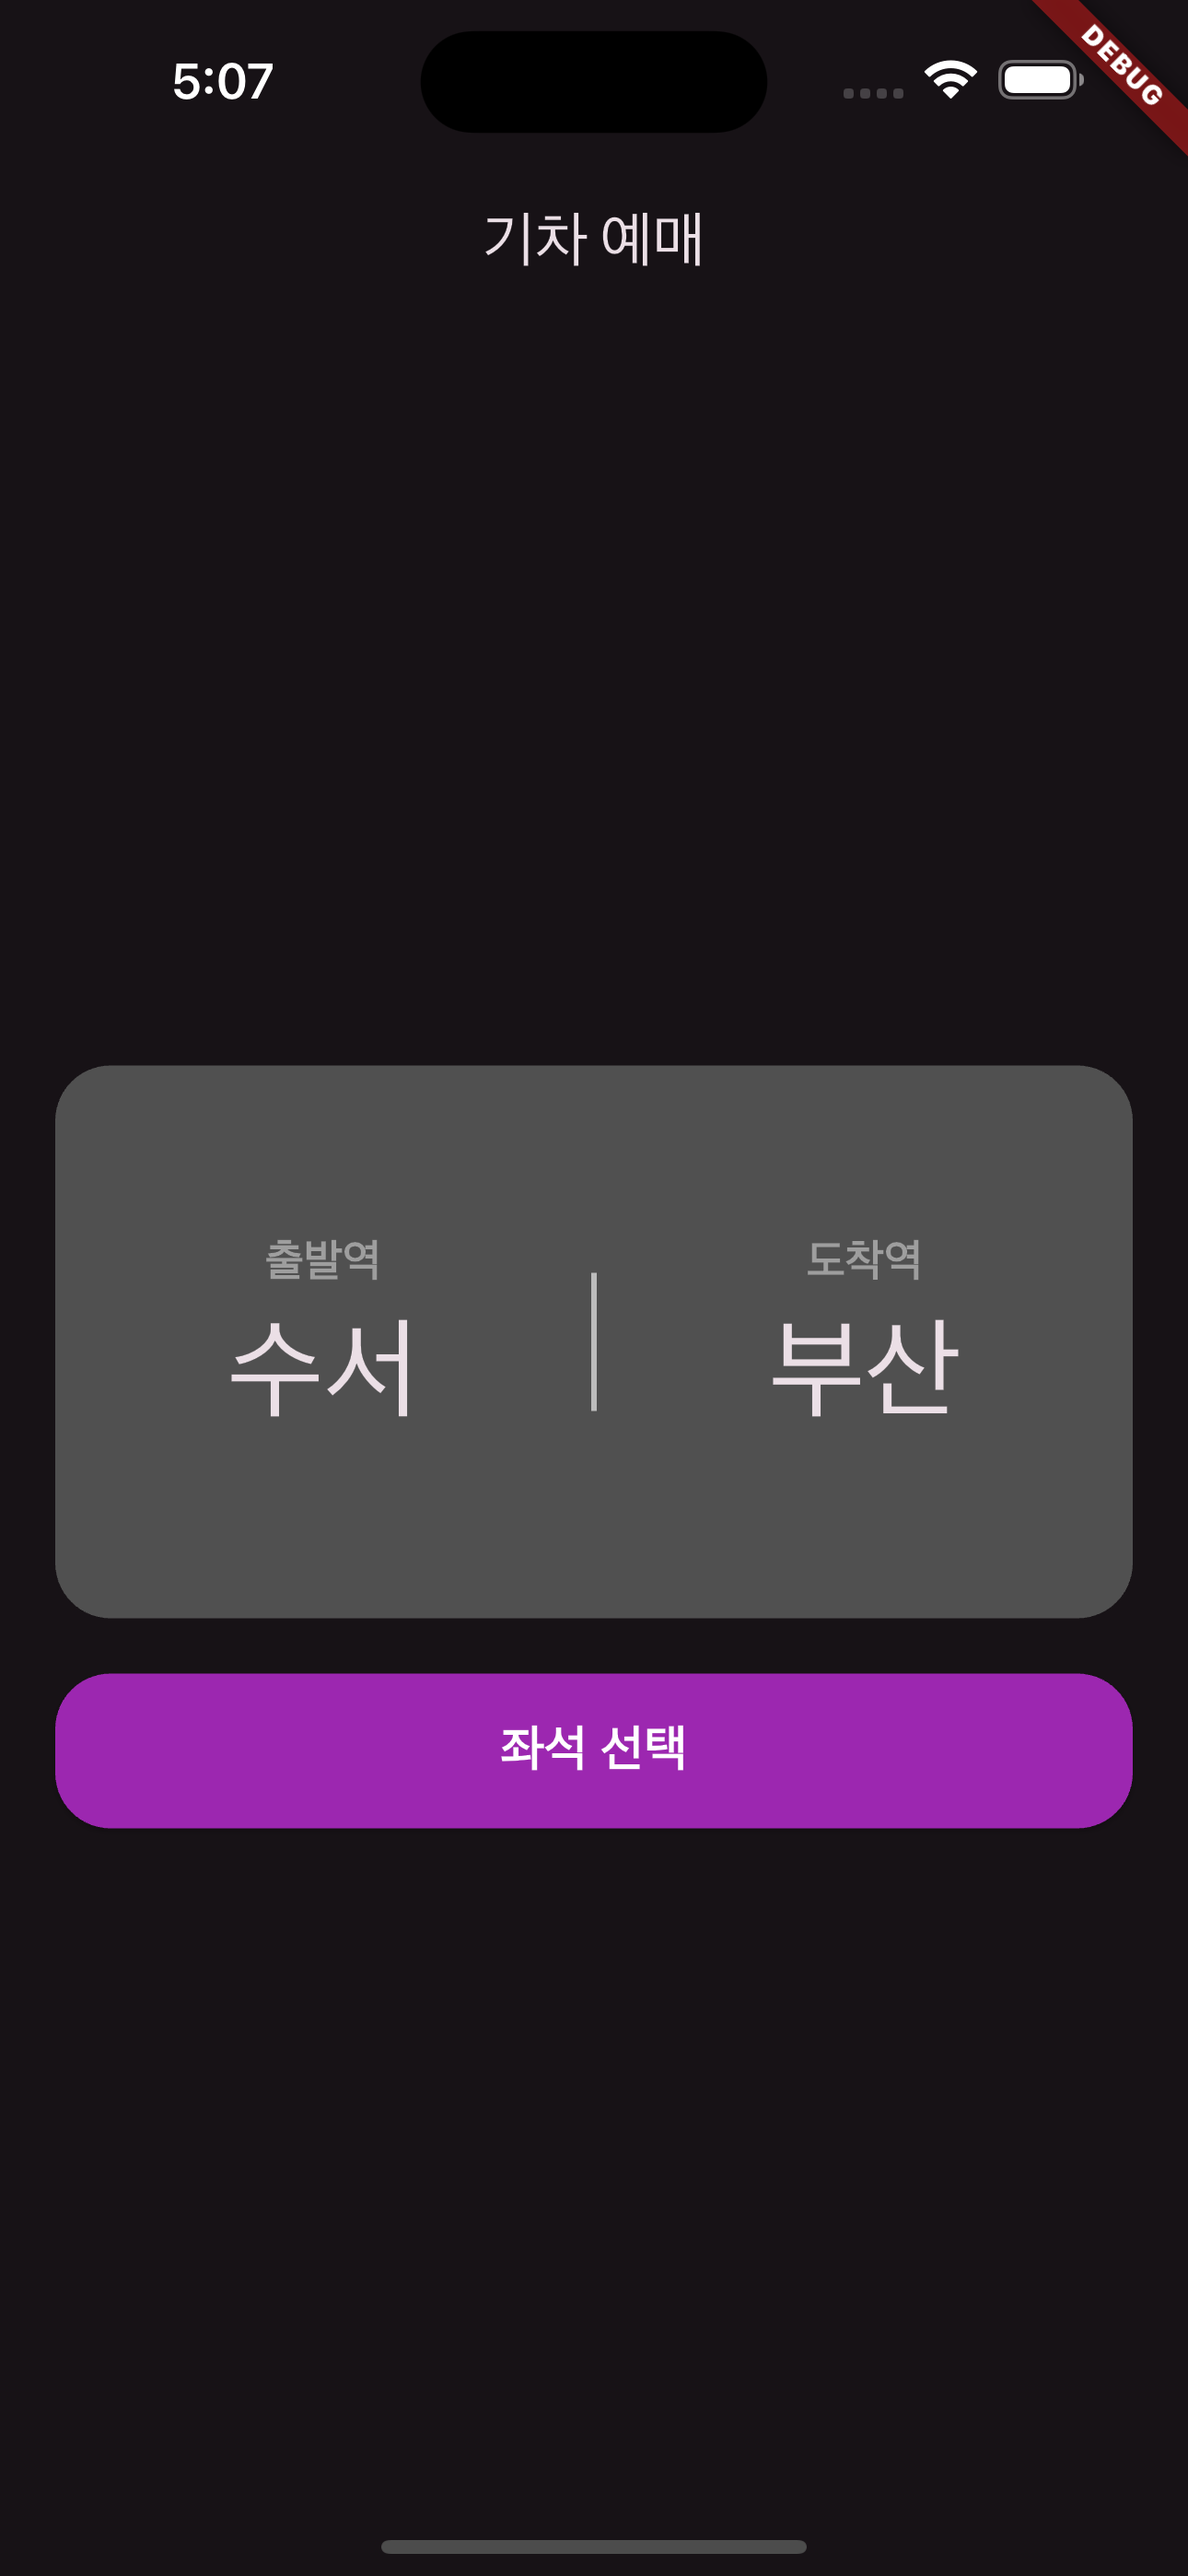
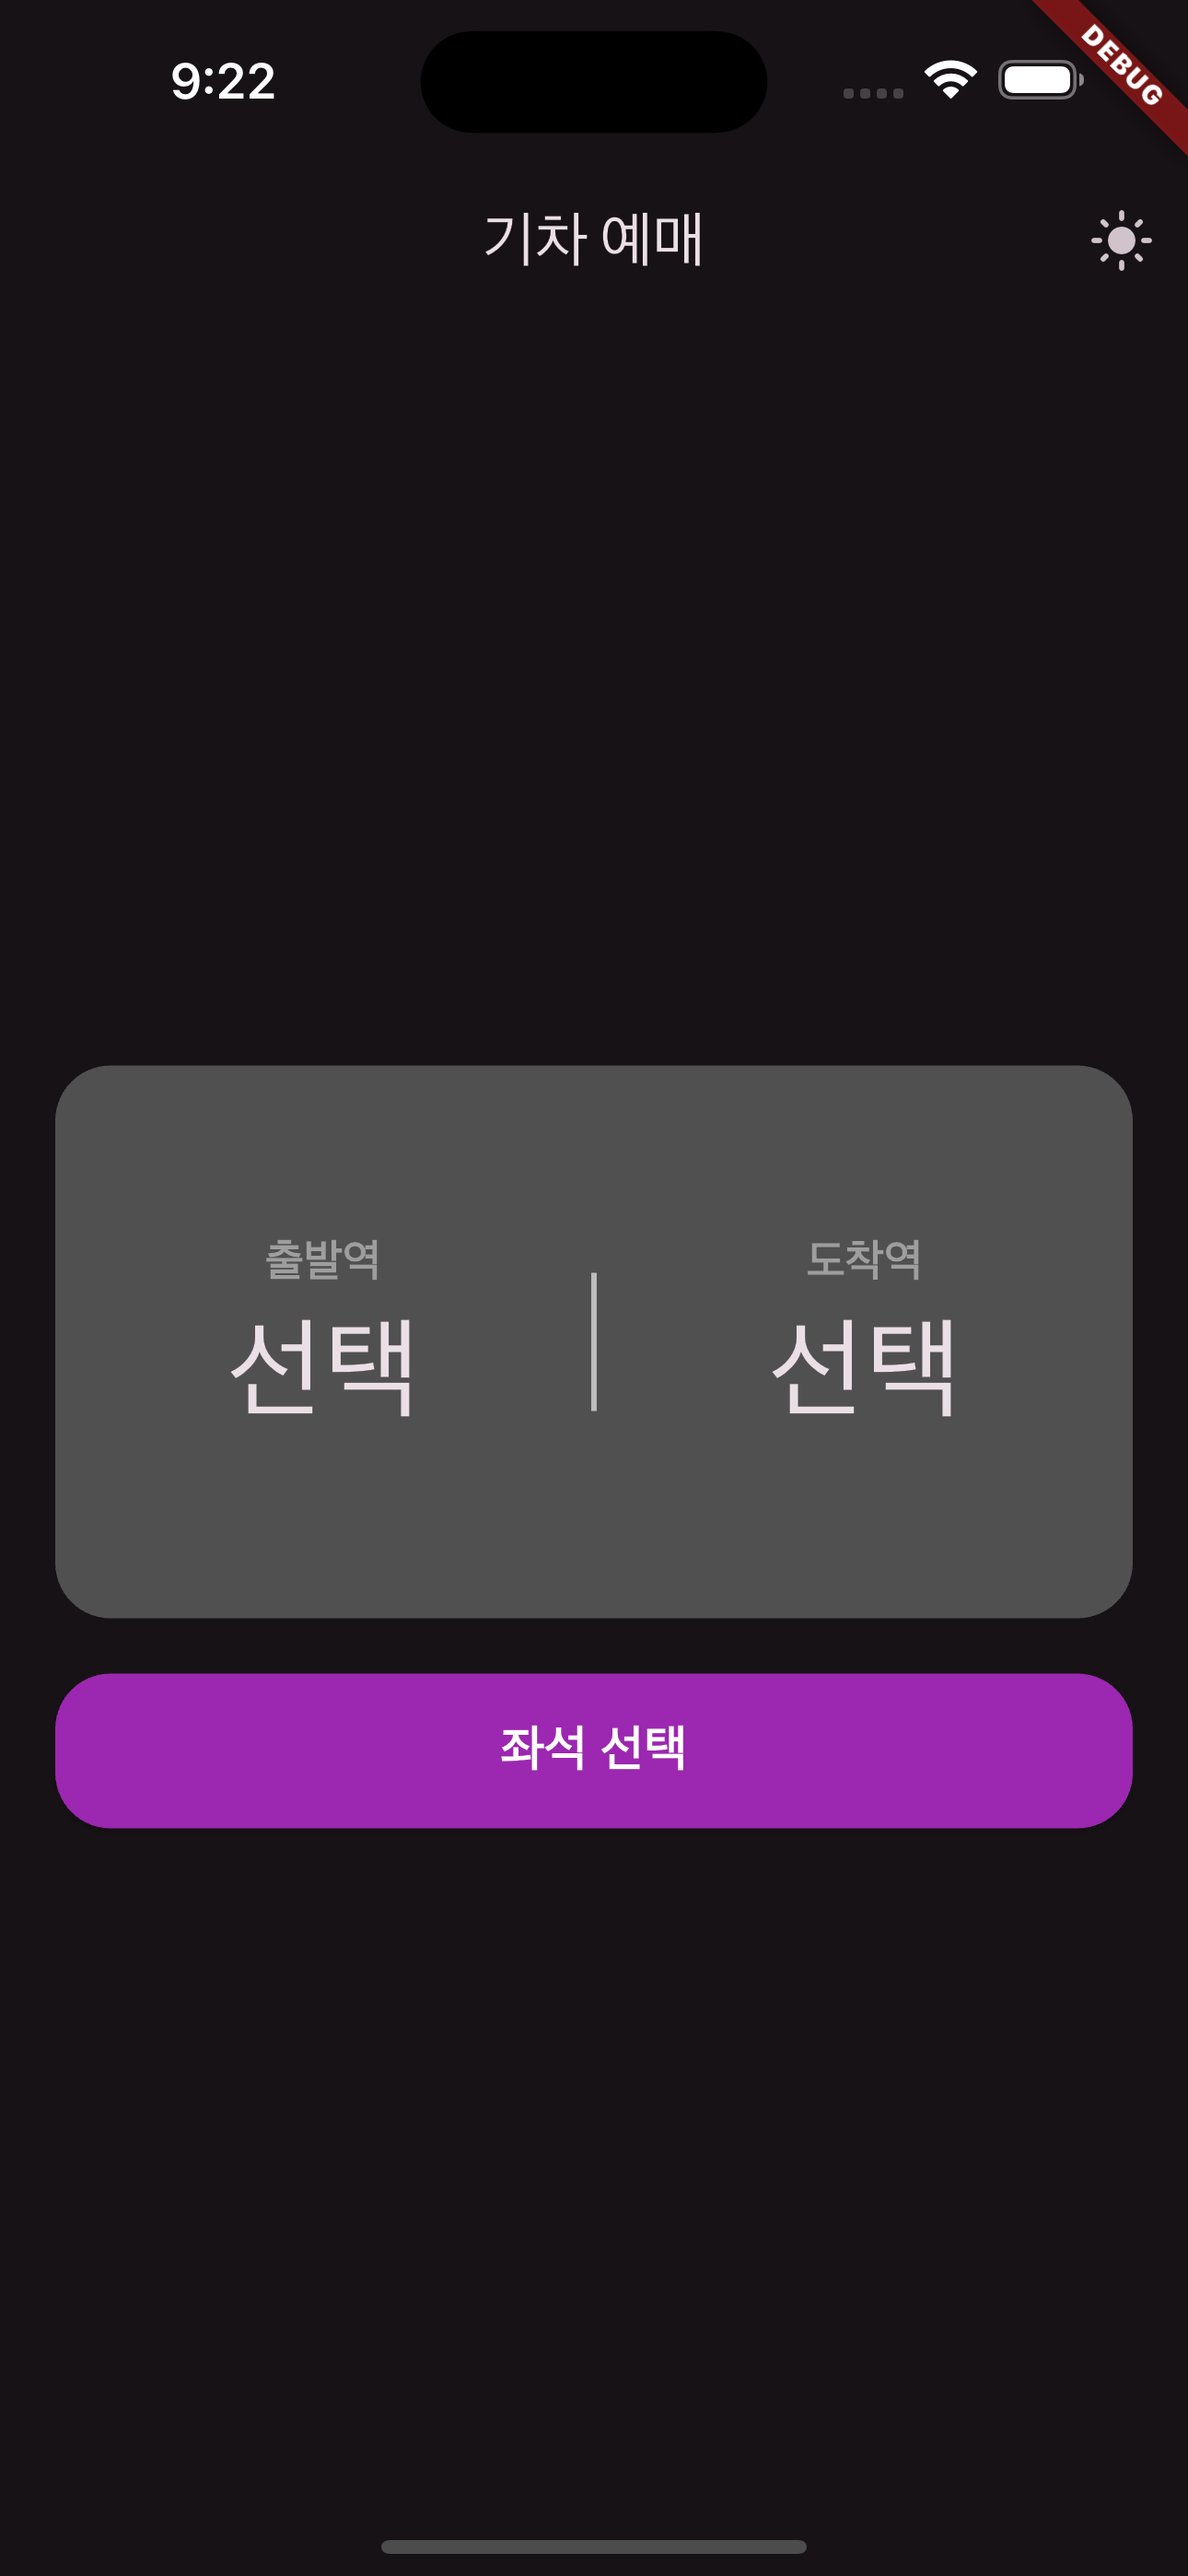
[feature] 기차 예매 화면에서 테마 모드 변경 기능 추가
- 앱바 오른쪽에 아이콘 추가해서 누를 때마다 테마 모드 변경할 수 있음
- readme 에 해당 내용 추가
- 변경된 UI 에 맞춰 캡쳐본 사진 변경

diff --git a/lib/home/widgets/home_page.dart b/lib/home/widgets/home_page.dart
@@ -1,5 +1,6 @@
 import 'package:flutter/material.dart';
 import 'package:flutter_train_app/home/widgets/station_selection_box.dart';
+import 'package:flutter_train_app/main.dart';
 import 'package:flutter_train_app/seat/widgets/seat_page.dart';
 
 class HomePage extends StatefulWidget {
@@ -25,6 +26,17 @@ class _HomePageState extends State<HomePage> {
     return Scaffold(
       appBar: AppBar(
         title: Text('기차 예매'),
+        actions: [
+          IconButton(
+            onPressed: () {
+              // icon 클릭할 때 Brightness 가 light 일 경우 value 값을 ThemeMode.dark 값으로 지정 아니면 ThemeMode.light
+              MyApp.themeNotifier.value =
+                  isLightMode ? ThemeMode.dark : ThemeMode.light;
+            },
+            // 모드가 light 일 경우 icon 이 dark_mode 아니면 light_mode
+            icon: Icon(isLightMode ? Icons.dark_mode : Icons.light_mode),
+          ),
+        ],
       ),
       body: Padding(
         padding: const EdgeInsets.symmetric(horizontal: 20),

diff --git a/lib/main.dart b/lib/main.dart
@@ -9,13 +9,21 @@ void main() {
 class MyApp extends StatelessWidget {
   const MyApp({super.key});
 
+  static final ValueNotifier<ThemeMode> themeNotifier =
+      ValueNotifier(ThemeMode.system);
+
   @override
   Widget build(BuildContext context) {
-    return MaterialApp(
-      home: HomePage(),
-      themeMode: ThemeMode.system,
-      theme: lightTheme,
-      darkTheme: darkTheme,
+    return ValueListenableBuilder<ThemeMode>(
+      valueListenable: themeNotifier,
+      builder: (_, ThemeMode currentMode, __) {
+        return MaterialApp(
+          home: HomePage(),
+          themeMode: currentMode,
+          theme: lightTheme,
+          darkTheme: darkTheme,
+        );
+      },
     );
   }
 }

diff --git a/README.md b/README.md
@@ -22,6 +22,7 @@
 
 ## 서비스 동작 방법
 
+- 첫 화면 상단 오른쪽에 테마 모드를 변경할 수 있는 아이콘이 있습니다.(라이트 -> 다크/다크 -> 라이트)
 - 첫 화면에서 선택 부분을 누르면 출발과 도착역을 지정할 수 있는 역 리스트가 나옵니다.
 - 역을 선택하면 반대편 역을 지정하여 좌석을 선택합니다.
 - 출발과 도착역이 정해져 있지 않은 경우 좌석을 선택할 수 없습니다.
